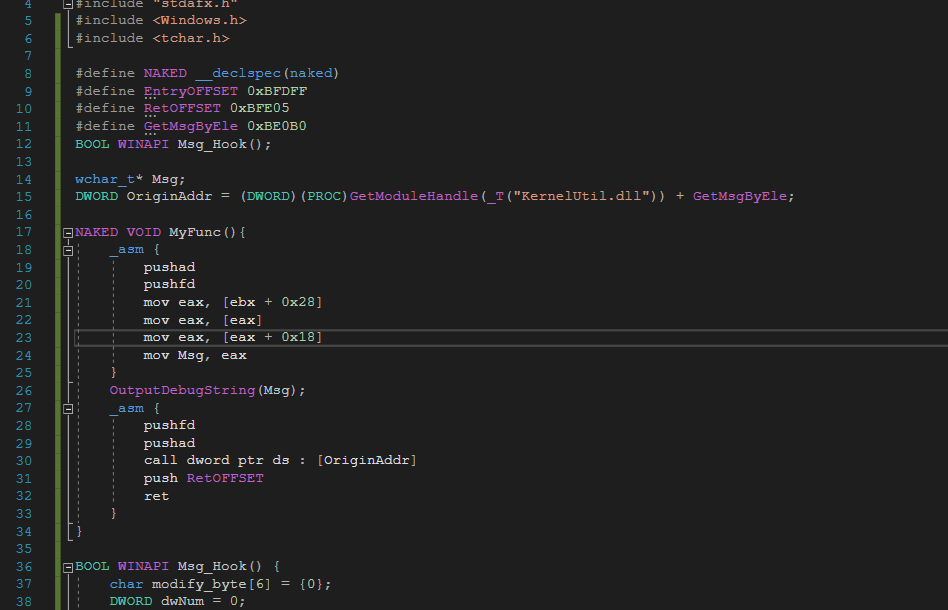
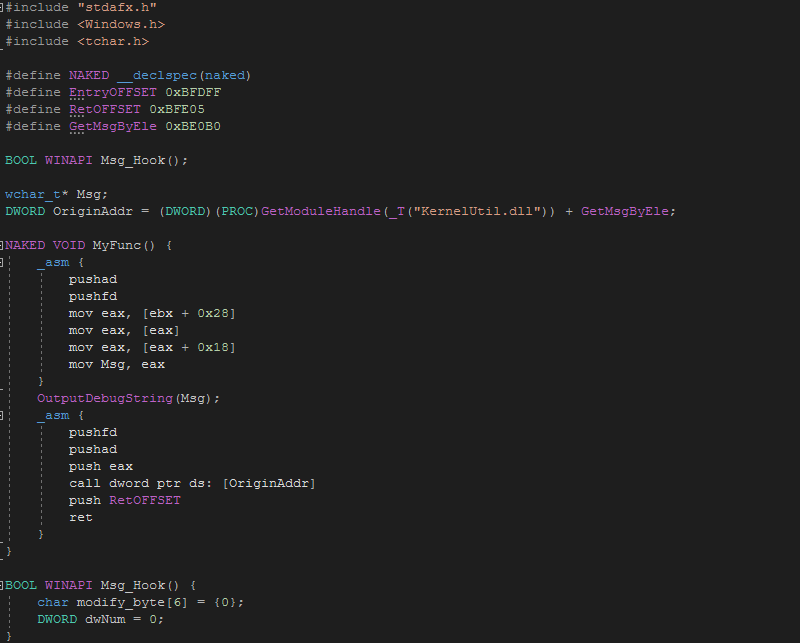
Site updated: 2020-03-12 23:32:52

Changed region(s): [[0.0, 0.0, 1.0, 1.0]]

diff --git a/2020/03/12/一次简单的Hook-下/index.html b/2020/03/12/一次简单的Hook-下/index.html
@@ -58,23 +58,24 @@
 <p>首先编写一个大致的框架，来分析一下都做了些什么，还缺一些什么。</p>
 <p>Inline Hook的核心在于修改指令，从而实现程序流程的转移。具体的流程就是，找到需要修改的位置，修改当前位置的指令。</p>
 <h5 id="修改指令的大小"><a href="#修改指令的大小" class="headerlink" title="修改指令的大小"></a>修改指令的大小</h5><p>这里采用的是push xxxxxxxx/retn的手法，所以需要创建一个6个字节的char型数组。</p>
-<h5 id="修改的位置"><a href="#修改的位置" class="headerlink" title="修改的位置"></a>修改的位置</h5><p>修改的位置如何确定？之前在OD分析反汇编程序时，确定在调用GetMsgAbstractByElement之前就可获取到消息内容，发现，调用这个函数的call语句加上之前的push eax，刚好6个字节，这就是Hook点了 <a href="/blog/2020/03/12/%E4%B8%80%E6%AC%A1%E7%AE%80%E5%8D%95%E7%9A%84Hook-%E4%B8%8B/modifyPoint.png" data-fancybox="group" data-caption="undefined" class="fancybox"><img class="lazyload" title="[]" data-src="/blog/2020/03/12/%E4%B8%80%E6%AC%A1%E7%AE%80%E5%8D%95%E7%9A%84Hook-%E4%B8%8B/modifyPoint.png"></a> 这样我们就可以补充第三条语句改成如下：</p>
+<h5 id="修改的位置"><a href="#修改的位置" class="headerlink" title="修改的位置"></a>修改的位置</h5><p>修改的位置如何确定？之前在OD分析反汇编程序时，确定在调用GetMsgAbstractByElement之前就可获取到消息内容，发现，调用这个函数的call语句加上之前的push eax，刚好6个字节，这就是Hook点了 <a href="/blog/2020/03/12/%E4%B8%80%E6%AC%A1%E7%AE%80%E5%8D%95%E7%9A%84Hook-%E4%B8%8B/modifyPoint.png" data-fancybox="group" data-caption="undefined" class="fancybox"><img class="lazyload" title="[]" data-src="/blog/2020/03/12/%E4%B8%80%E6%AC%A1%E7%AE%80%E5%8D%95%E7%9A%84Hook-%E4%B8%8B/modifyPoint.png"></a> 这个位置位于KernelUtil.dll中，所以我们可以补充第三条语句改成如下：</p>
 <div class="code-area-wrap"><div class="highlight-tools"><i class="fa fa-angle-down code-expand" aria-hidden="true"></i><div class="code_lang">Code</div><div class="copy-notice"></div><i class="fa fa-clipboard" aria-hidden="true"></i></div><figure class="highlight plain"><table><tbody><tr><td class="gutter"><pre><span class="line">1</span><br></pre></td><td class="code"><pre><span class="line">DWORD modify_addr = (PROC)GetModuleHandle("KernelUtil.dll") + EntryOFFSET;</span><br></pre></td></tr></tbody></table></figure></div>
 
 <p>同时也可以根据基址确定EntryOFFSET并写在开头。</p>
 <h5 id="如何修改？"><a href="#如何修改？" class="headerlink" title="如何修改？"></a>如何修改？</h5><p>这里采用Windows提供的ReadProcessMemory和WriteProcessMemory这两个函数，参数非常好理解，当前进程，需要修改的地址位置，修改的字节，修改字节的长度以及一个可以忽略的参数。在读的时候，指定位置的指定大小的字节会被保存进定义的char型数组里，写的时候就是把修改后的字节写回原来的地址。那我们要如何确定该写什么呢？</p>
-<p>根据push xxxxxxxx/retn指令，可以确定第一个字节和最后一个字节分别为0x68和0xC3。中间的4个字节填什么？就是执行我们做手脚的函数地址了。Hook函数的作用就是转移程序执行的流程，将程序转移到我们自己定义的函数，我们自己的函数就可以对当前的程序做些手脚，比如读取函数接收的参数，并将其传递出来。目前为止，经过分析，可以进一步完善源程序。</p>
+<p>根据push xxxxxxxx/retn指令，可以确定第一个字节和最后一个字节分别为0x68和0xC3。中间的4个字节填什么？就是执行我们做手脚的函数地址了。Hook函数的作用就是转移程序执行的流程，将程序转移到我们自己定义的函数，我们自己的函数就可以对当前的程序做些手脚，比如读取函数接收的参数，并将其传递出来。</p>
+<p>目前为止，经过分析，可以进一步完善源程序。</p>
 <a href="/blog/2020/03/12/%E4%B8%80%E6%AC%A1%E7%AE%80%E5%8D%95%E7%9A%84Hook-%E4%B8%8B/sourceThen.png" data-fancybox="group" data-caption="undefined" class="fancybox"><img class="lazyload" title="[]" data-src="/blog/2020/03/12/%E4%B8%80%E6%AC%A1%E7%AE%80%E5%8D%95%E7%9A%84Hook-%E4%B8%8B/sourceThen.png"></a>
 
 <p>接下来，就来编写自己的函数，将消息内容传递出来。</p>
-<h4 id="功能函数"><a href="#功能函数" class="headerlink" title="功能函数"></a>功能函数</h4><p>功能函数其实就是用汇编写一个裸函数，为啥要用裸函数？这样的话，编译器就不会自动帮我们生成</p>
+<h4 id="功能函数"><a href="#功能函数" class="headerlink" title="功能函数"></a>功能函数</h4><p>功能函数其实就是用汇编写一个裸函数，为啥要用裸函数？这样的话，编译器就不会自动帮我们生成如下这三行指令：</p>
 <div class="code-area-wrap"><div class="highlight-tools"><i class="fa fa-angle-down code-expand" aria-hidden="true"></i><div class="code_lang">Code</div><div class="copy-notice"></div><i class="fa fa-clipboard" aria-hidden="true"></i></div><figure class="highlight plain"><table><tbody><tr><td class="gutter"><pre><span class="line">1</span><br><span class="line">2</span><br><span class="line">3</span><br></pre></td><td class="code"><pre><span class="line">push ebp</span><br><span class="line">mov ebp, esp</span><br><span class="line">sub esp, 0x20</span><br></pre></td></tr></tbody></table></figure></div>
 
 <p>而是我们自己平衡堆栈，所以就可以避免很多额外的偏移造成的麻烦，经过上一篇的分析已知，当函数到达GetMsgAbstractByElement的位置处时，可以通过[[ebx+0x28]]+0x18获取消息内容。那就可以采用一下方式：</p>
-<div class="code-area-wrap"><div class="highlight-tools"><i class="fa fa-angle-down code-expand" aria-hidden="true"></i><div class="code_lang">Code</div><div class="copy-notice"></div><i class="fa fa-clipboard" aria-hidden="true"></i></div><figure class="highlight plain"><table><tbody><tr><td class="gutter"><pre><span class="line">1</span><br><span class="line">2</span><br><span class="line">3</span><br><span class="line">4</span><br><span class="line">5</span><br><span class="line">6</span><br></pre></td><td class="code"><pre><span class="line">pushad</span><br><span class="line">pushfd</span><br><span class="line">mov eax, [ebx+0x28]</span><br><span class="line">mov eax, [eax]</span><br><span class="line">mov eax, eax+0x18</span><br><span class="line">mov Msg, eax</span><br></pre></td></tr></tbody></table></figure></div>
+<div class="code-area-wrap"><div class="highlight-tools"><i class="fa fa-angle-down code-expand" aria-hidden="true"></i><div class="code_lang">Code</div><div class="copy-notice"></div><i class="fa fa-clipboard" aria-hidden="true"></i></div><figure class="highlight plain"><table><tbody><tr><td class="gutter"><pre><span class="line">1</span><br><span class="line">2</span><br><span class="line">3</span><br><span class="line">4</span><br><span class="line">5</span><br><span class="line">6</span><br></pre></td><td class="code"><pre><span class="line">pushad</span><br><span class="line">pushfd</span><br><span class="line">mov eax, [ebx+0x28]</span><br><span class="line">mov eax, [eax]</span><br><span class="line">mov eax, [eax+0x18]</span><br><span class="line">mov Msg, eax</span><br></pre></td></tr></tbody></table></figure></div>
 
 <p>这样只要在外部定义一个变量Msg，即可将消息取到，然后可以利用OutputDebugString将消息内容输出到DbgView里观察。</p>
-<p>但这还没有结束，因为之前覆盖掉了GetMsgAbstractByElement，所以这次需要重新再调用一遍，调用的地址，就是KernelUtil的基址+偏移。</p>
+<p>但这还没有结束，因为之前覆盖掉了GetMsgAbstractByElement，所以这次需要重新再调用一遍。所以我们需要获取GetMsgAbstractByElement的地址，先通过当前地址和基址相减算出偏移0xBE0B0，然后通过KernelUtil.base+Offset确定函数的地址。这时只需要在平衡堆栈后的地方，补上之前替换掉的6个字节即可。</p>
 <p>最终功能函数实现如下：</p>
 <a href="/blog/2020/03/12/%E4%B8%80%E6%AC%A1%E7%AE%80%E5%8D%95%E7%9A%84Hook-%E4%B8%8B/func.png" data-fancybox="group" data-caption="undefined" class="fancybox"><img class="lazyload" title="[]" data-src="/blog/2020/03/12/%E4%B8%80%E6%AC%A1%E7%AE%80%E5%8D%95%E7%9A%84Hook-%E4%B8%8B/func.png"></a>
 
